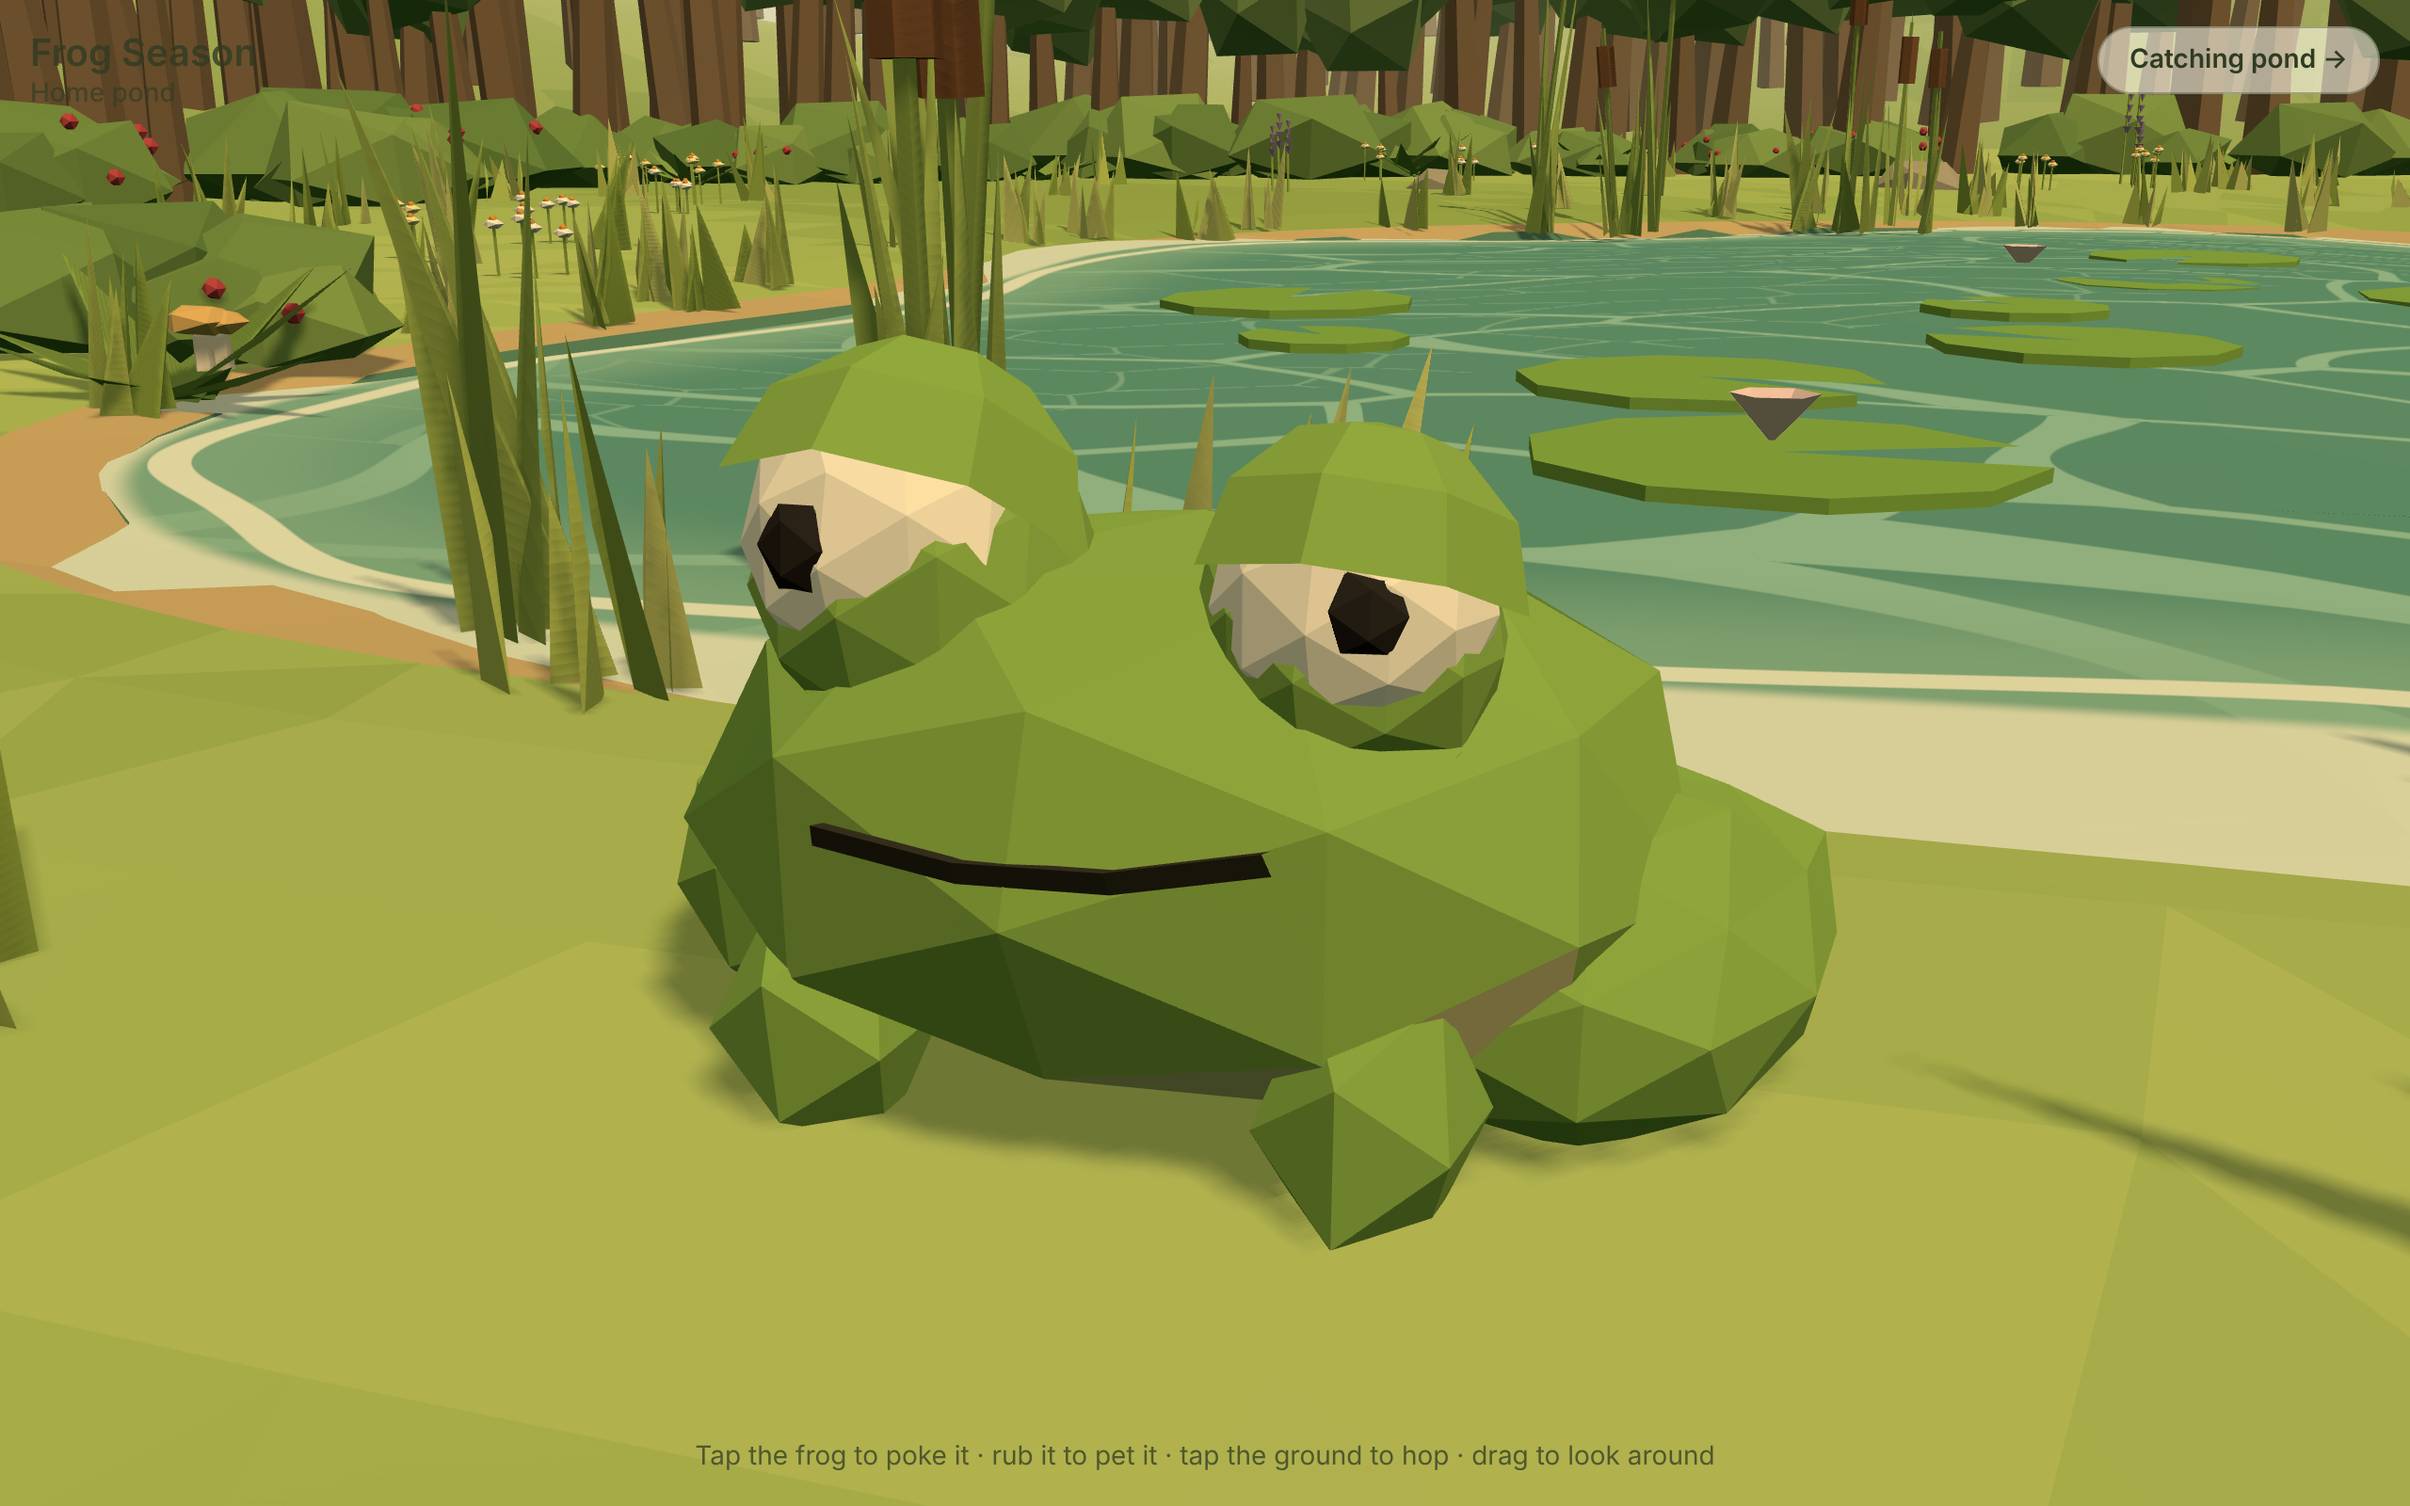
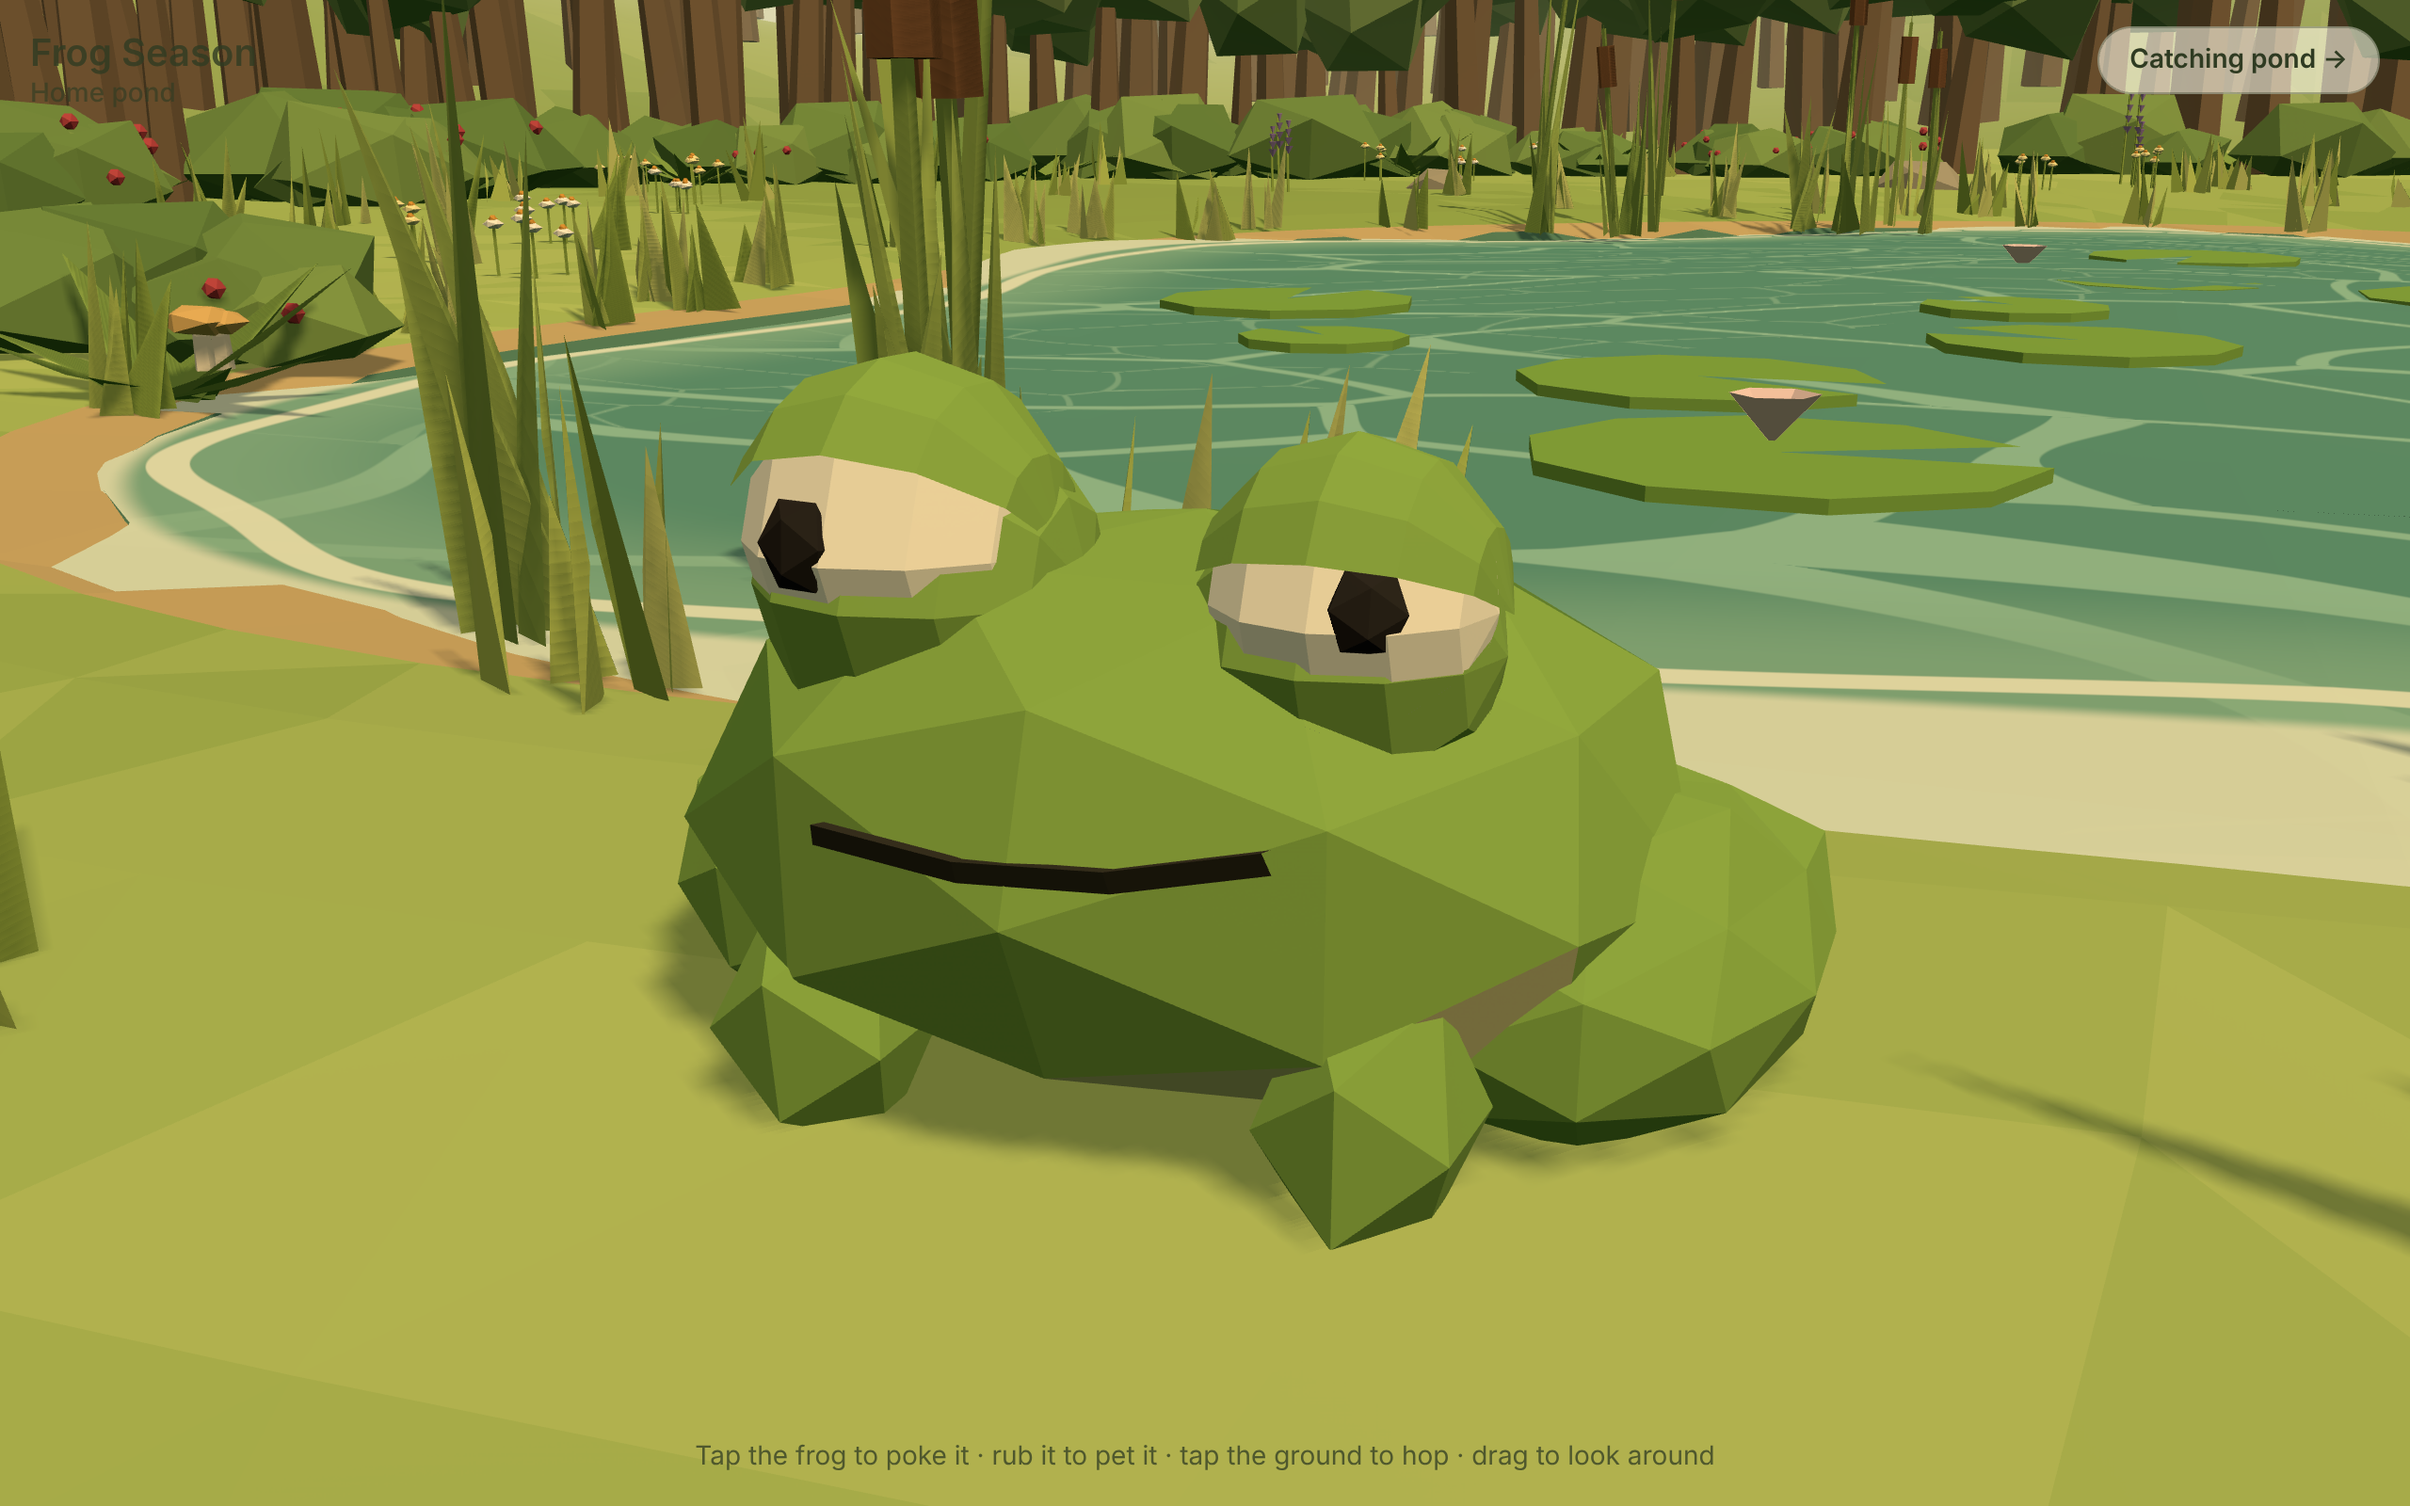
Make eyelids fit the eyeballs: socket, eyeball and lid share one ring layout
They were three different meshes (a lumpy blob, an icosahedron and an
8x3 half dome), so the lid edge cut across the eyeball's facets at odd
angles. Now all three are the same 8-sided ball with its rings around
the lid's hinge, nested like shells.

Claude-Session: https://claude.ai/code/session_01SYWsEsCqB5f8CCQpeoziyd

diff --git a/src/frog.js b/src/frog.js
@@ -98,10 +98,13 @@ export class Frog {
       const eye = new THREE.Group();
       eye.position.set(side * 0.5 * plump, 1.18 + (side < 0 ? 0.03 : -0.02), 0.42);
       this.squash.add(eye);
-      const socket = add(new THREE.Mesh(blob(rng, { rough: 0.06 }), skin), eye);
+      // Socket, eyeball and lid are all the same 8-sided ball, turned so its rings run
+      // around the lid's hinge (the x axis). That way their facets line up like nested shells
+      // whichever way the lid is turned, instead of zigzagging across each other.
+      const socket = add(new THREE.Mesh(eyeShell(), skin), eye);
       socket.scale.setScalar(r * 1.12);
       socket.position.y = -0.06;
-      const ball = add(new THREE.Mesh(blob(rng, { detail: 1, rough: 0 }), flatMaterial(0xf1edd8, { emissive: 0x3a3830 })), eye);
+      const ball = add(new THREE.Mesh(eyeShell(), flatMaterial(0xf1edd8, { emissive: 0x3a3830 })), eye);
       ball.scale.setScalar(r);
       ball.position.set(side * 0.03, 0.04, 0.06);
       // The pupil sits on a pivot inside the eyeball, so turning the pivot moves the gaze.
@@ -111,14 +114,13 @@ export class Frog {
       const pupil = new THREE.Mesh(new THREE.IcosahedronGeometry(1, 0), flatMaterial(0x1d1a17));
       pupil.position.z = r * 0.9;
       pivot.add(pupil);
-      // Eyelid: a skin-coloured half dome over the eyeball. Rotating it forward closes the eye.
+      // Eyelid: the top half of a slightly bigger copy of the eyeball, so it fits snugly like
+      // a shell. Rotating it forward closes the eye.
       const lidPivot = new THREE.Group();
       lidPivot.position.copy(ball.position);
       eye.add(lidPivot);
-      const lid = add(
-        new THREE.Mesh(new THREE.SphereGeometry(r * 1.2, 8, 3, 0, Math.PI * 2, 0, Math.PI / 2), skin),
-        lidPivot
-      );
+      const lid = add(new THREE.Mesh(eyeShell(true), skin), lidPivot);
+      lid.scale.setScalar(r * 1.1);
       lid.castShadow = false;
       const droop = side < 0 ? 0.15 : 0.35; // how heavy-lidded this eye is at rest
       this.eyes.push({ group: eye, pivot, pupil, lidPivot, r, droop, side, follow: side < 0 ? 1 : 0.35 });
@@ -396,6 +398,16 @@ export class Frog {
       eye.pupil.scale.set(p, p, p * 0.5);
     }
   }
+}
+
+// A low-poly ball (8 sides, 6 rings) with its poles pointing left and right, so its rings
+// run around the x axis. `half` keeps only the top half, for an eyelid.
+function eyeShell(half = false) {
+  const g = half
+    ? new THREE.SphereGeometry(1, 8, 6, Math.PI / 2, Math.PI)
+    : new THREE.SphereGeometry(1, 8, 6);
+  g.rotateZ(Math.PI / 2);
+  return g;
 }
 
 function lerpAngle(a, b, t) {
